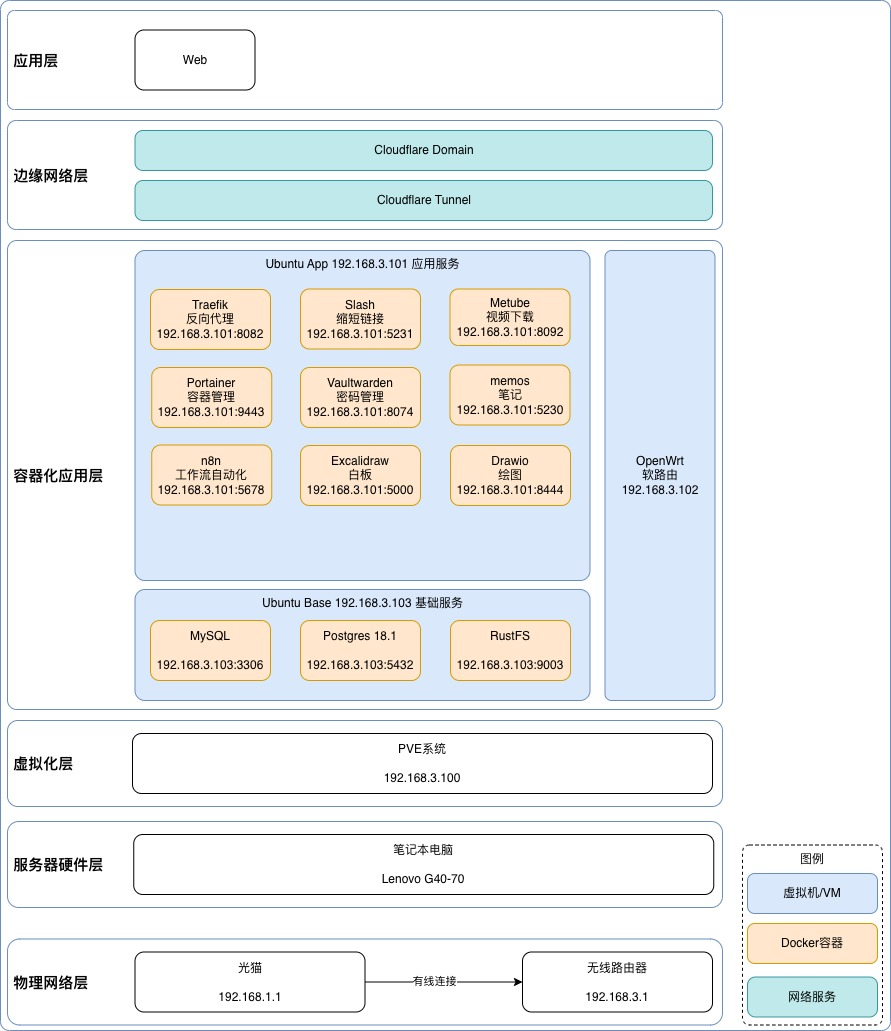
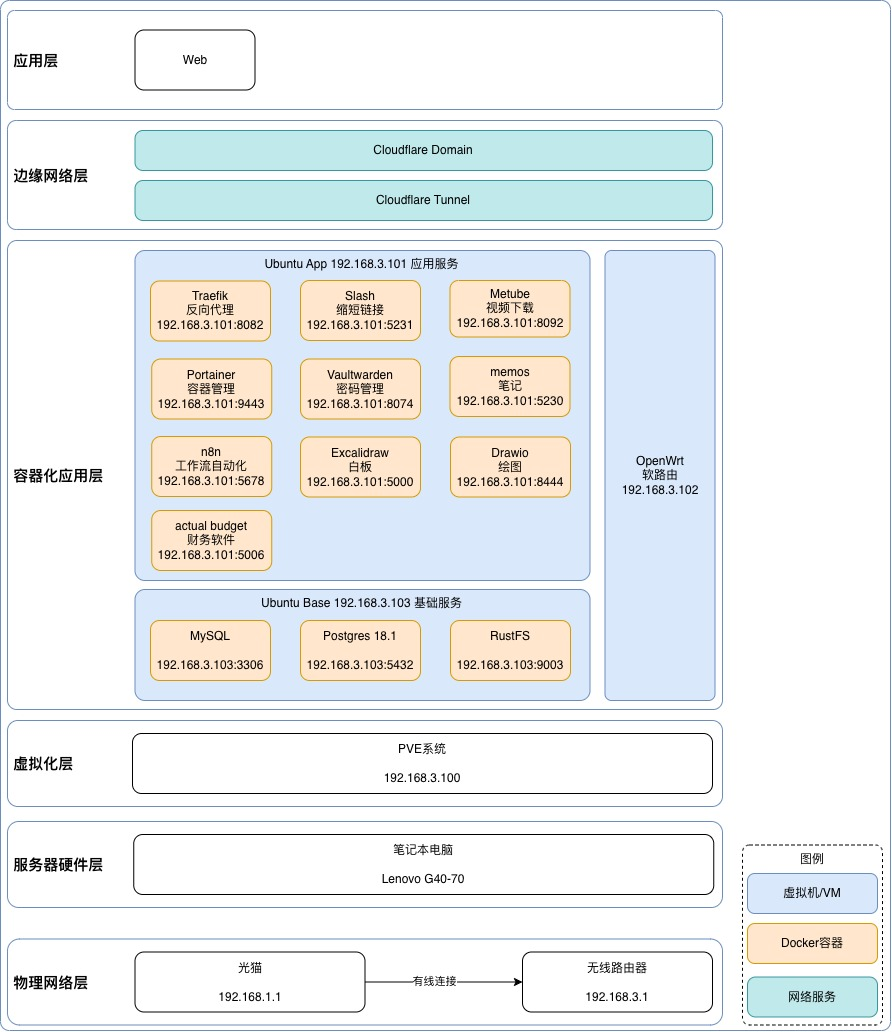
财务软件安装

diff --git a/src/content/docs/homelab/applications.md b/src/content/docs/homelab/applications.md
@@ -2,7 +2,7 @@
 title: 应用部署
 description: 应用部署
 template: doc
-lastUpdated: 2026-01-18 17:12:15
+lastUpdated: 2026-01-18 19:57:36
 sidebar:
   order: 9
 ---
@@ -318,10 +318,24 @@ docker run -d \
 http://192.168.3.103:9001/rustfs/console/browser
 
 
+#### 财务软件 Actual Budget
 
+https://github.com/actualbudget/actual
+
+https://actualbudget.org/docs/install/docker
+
+```bash
+docker run --pull=always --restart=unless-stopped -d -p 5006:5006 -v 你的挂载目录:/data --name my_actual_budget \
+--label "traefik.enable=true" \
+--label "traefik.http.routers.actual-budget-router.rule=Host(\"money.moatkon.com\")" \
+--label "traefik.http.services.actual-budget-service.loadbalancer.server.port=5006" \
+--network traefik_default \
+actualbudget/actual-server:latest
+```
 
 #### 待托管
 - []https://jellyfin.org/docs/general/installation/container
 - []https://docs.postiz.com/installation/docker
 - [] https://github.com/amruthpillai/reactive-resume 开源简历
-- [X] S3 --> RustFS 
+- [X] S3 --> RustFS
+- [X] 财务软件 --> actual budget

diff --git a/src/content/docs/homelab/deployment-architecture.md b/src/content/docs/homelab/deployment-architecture.md
@@ -2,7 +2,7 @@
 title: 最新部署情况
 description: 最新部署情况
 template: doc
-lastUpdated: 2026-01-17 09:59:29
+lastUpdated: 2026-01-18 19:57:36
 sidebar:
   order: 0
   badge:
@@ -10,4 +10,4 @@ sidebar:
     variant: default
 ---
 #### 部署细节
-![](/homelab/Moatkon-HomeLab-Arch-Deploy-Details.jpg?v=2)
+![](/homelab/Moatkon-HomeLab-Arch-Deploy-Details.jpg?v=3)
